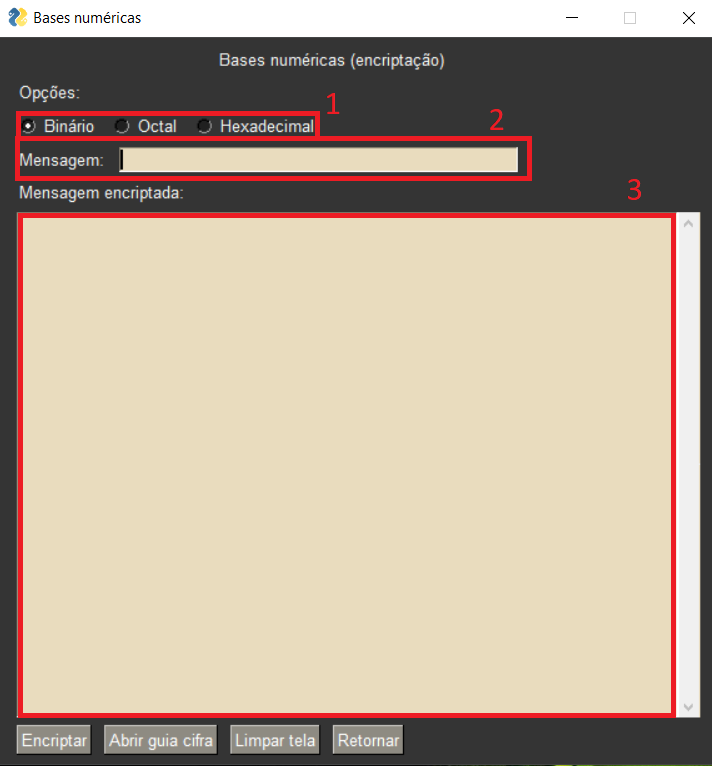
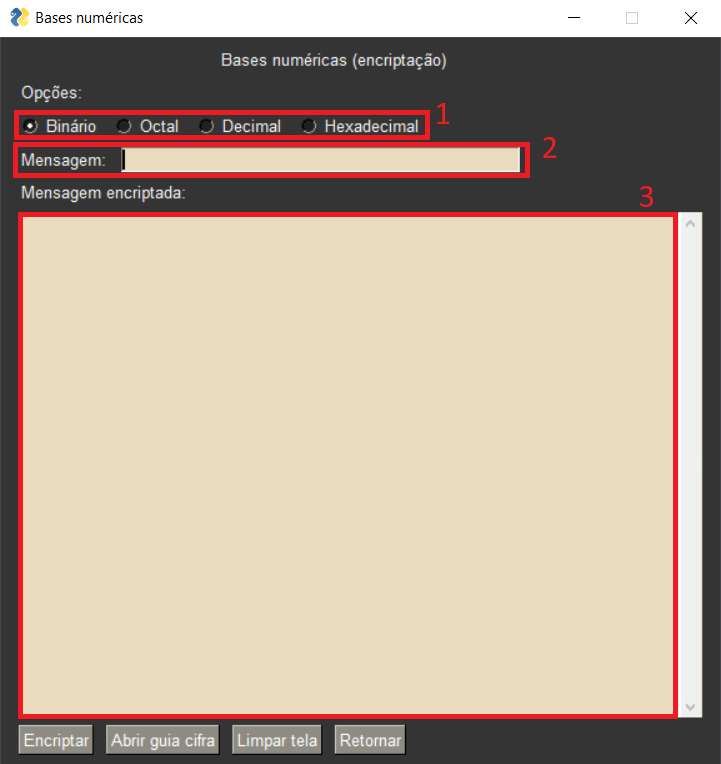
base 64 | decimal |  screenshots

diff --git a/test_bases_numericas.py b/test_bases_numericas.py
@@ -87,6 +87,44 @@ def test_octal_texto_grande_2():
     '103 141 162 141 143 164 145 162 145 163 40 145 163 160 145 143 151 141 151 163 72 52 334 241 1337 1156'
     ) == 'Caracteres especiais:*Ü¡˟ɮ'
 
+# DECIMAL
+def test_decimal_trocar_um_caractere_minusculo():
+    assert bases_numericas.transformar_texto_para_decimal('a') == '97'
+    assert bases_numericas.transformar_decimal_para_texto('97') == 'a'
+
+def test_decimal_trocar_um_caractere_maiusculo():
+    assert bases_numericas.transformar_texto_para_decimal('A') == '65'
+    assert bases_numericas.transformar_decimal_para_texto('65') == 'A'
+
+def test_decimal_trocar_um_caractere_especial():
+    assert bases_numericas.transformar_texto_para_decimal('á') == '225'
+    assert bases_numericas.transformar_decimal_para_texto('225') == 'á'
+
+def test_decimal_traducao_invalido_1():
+    assert bases_numericas.transformar_decimal_para_texto('1238a') == dicionarios.retorna_erro_mensagem()
+
+def test_decimal_traducao_invalido_2():
+    assert bases_numericas.transformar_decimal_para_texto('99999999999999') == dicionarios.retorna_erro_mensagem()
+
+def test_decimal_mensagem_invalida():
+    assert bases_numericas.transformar_texto_para_decimal('') == dicionarios.retorna_erro_mensagem()
+    assert bases_numericas.transformar_decimal_para_texto('') == dicionarios.retorna_erro_mensagem()
+
+def test_decimal_texto_grande_1():
+    assert bases_numericas.transformar_texto_para_decimal('Primeiro texto em decimal'
+    ) == '80 114 105 109 101 105 114 111 32 116 101 120 116 111 32 101 109 32 100 101 99 105 109 97 108'
+
+    assert bases_numericas.transformar_decimal_para_texto(
+    '80 114 105 109 101 105 114 111 32 116 101 120 116 111 32 101 109 32 100 101 99 105 109 97 108'
+    ) == 'Primeiro texto em decimal'
+
+def test_decimal_texto_grande_2():
+    assert bases_numericas.transformar_texto_para_decimal('Caracteres especiais:*Ü¡˟ɮ'
+    ) == '67 97 114 97 99 116 101 114 101 115 32 101 115 112 101 99 105 97 105 115 58 42 220 161 735 622'
+
+    assert bases_numericas.transformar_decimal_para_texto(
+    '67 97 114 97 99 116 101 114 101 115 32 101 115 112 101 99 105 97 105 115 58 42 220 161 735 622'
+    ) == 'Caracteres especiais:*Ü¡˟ɮ'
 
 # HEXADECIMAL
 def test_hexadecimal_trocar_um_caractere_minusculo():

diff --git a/Cifras/bases_numericas.py b/Cifras/bases_numericas.py
@@ -12,6 +12,9 @@ def transformar_texto_para_binario(mensagem):
 def transformar_texto_para_octal(mensagem):
     return retornar_texto_encriptado(mensagem, converter_decimal_para_octal)
 
+def transformar_texto_para_decimal(mensagem):
+    return retornar_texto_encriptado(mensagem, converter_para_decimal)
+
 def transformar_texto_para_hexadecimal(mensagem):
     return retornar_texto_encriptado(mensagem, converter_decimal_para_hexadecimal)
 
@@ -20,6 +23,9 @@ def transformar_binario_para_texto(mensagem):
 
 def transformar_octal_para_texto(mensagem):
     return retornar_texto_traduzido(mensagem, converter_octal_para_decimal)
+
+def transformar_decimal_para_texto(mensagem):
+    return retornar_texto_traduzido(mensagem, verificar_num_decimal)
 
 def transformar_hexadecimal_para_texto(mensagem):
     return retornar_texto_traduzido(mensagem, converter_hexadecimal_para_decimal)
@@ -40,10 +46,13 @@ def retornar_texto_traduzido(mensagem, funcao_tradutora):
     for numero in mensagem.split():
         try:
             mensagem_traduzida += chr(funcao_tradutora(numero))
-        except:
+        except:  # Caractere inválido foi colocado para a tradução...
             return dicionarios.retorna_erro_mensagem()
     return mensagem_traduzida
 
+
+def converter_para_decimal(numero_decimal):
+    return str(numero_decimal)
 
 def converter_decimal_para_binario(numero_decimal):
     valor_binario = ''
@@ -98,3 +107,7 @@ def converter_hexadecimal_para_decimal(numero_hexadecimal):
         except:
             return 'Erro'
     return numero_decimal
+
+
+def verificar_num_decimal(numero_decimal):
+    return int(numero_decimal)

diff --git a/Menus/menus_cifras.py b/Menus/menus_cifras.py
@@ -162,6 +162,7 @@ def menu_bases_numericas_encriptação(tela_anterior):
     titulo_da_cifra = 'Bases numéricas'
     dicionario_funções_bases_num_encript = {'Binário': bases_numericas.transformar_texto_para_binario,
                                             'Octal': bases_numericas.transformar_texto_para_octal,
+                                            'Decimal': bases_numericas.transformar_texto_para_decimal,
                                             'Hexadecimal': bases_numericas.transformar_texto_para_hexadecimal}   
     layout_bases_numericas_encript = retorna_layout_bases_numericas(titulo_da_cifra, dicionario_funções_bases_num_encript.keys()) 
 
@@ -171,6 +172,7 @@ def menu_bases_numericas_tradução(tela_anterior):
     titulo_da_cifra = 'Bases numéricas'
     dicionario_funções_bases_num_traduc = {'Binário': bases_numericas.transformar_binario_para_texto,
                                            'Octal': bases_numericas.transformar_octal_para_texto,
+                                           'Decimal': bases_numericas.transformar_decimal_para_texto,
                                            'Hexadecimal': bases_numericas.transformar_hexadecimal_para_texto}
     layout_bases_numericas_traduc = retorna_layout_bases_numericas(titulo_da_cifra, dicionario_funções_bases_num_traduc, modo='traducao')
 

diff --git a/dicionarios.py b/dicionarios.py
@@ -186,12 +186,14 @@ def retorna_opcoes_cifras():
                 'Vários caracteres': 'Vários caracteres',
                 'Binário': 'Binário',
                 'Octal': 'Octal',
+                'Decimal': 'Decimal',
                 'Hexadecimal': 'Hexadecimal'}
     else:
         return {'Apenas letras': 'Only letters',
                 'Vários caracteres': 'Several characters',
                 'Binário': 'Binary',
                 'Octal': 'Octal',
+                'Decimal': 'Decimal',
                 'Hexadecimal': 'Hexadecimal'}
 
 
